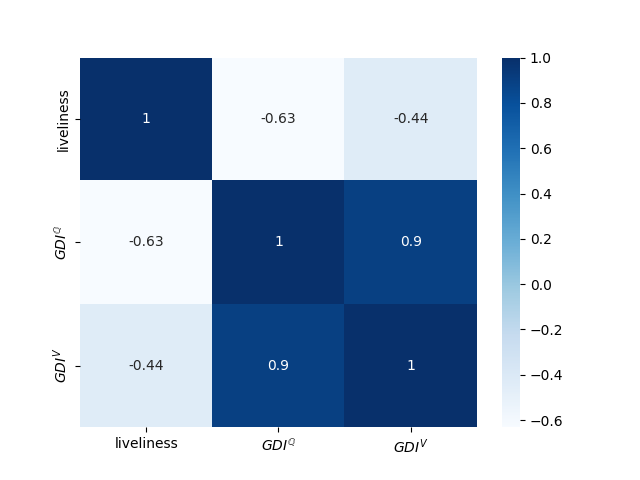
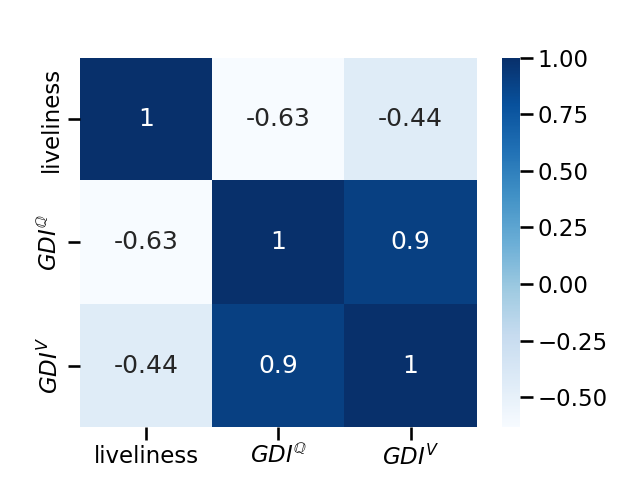
submitted for review version

diff --git a/benchmark/benchmark/Utils/64node_analysis.py b/benchmark/benchmark/Utils/64node_analysis.py
@@ -26,6 +26,10 @@ def non_us_europe_count(data):
     return (64-count)
 
 all_data = pd.read_csv("/home/ubuntu/results/64node-random-mean-geo-dec-metrics.csv")
+fixed_data = pd.read_csv("/home/ubuntu/results/64node-fixed-mean-geo-dec-metrics.csv")
+# check_data = pd.read_csv("/home/ubuntu/results/64node-check-mean-geo-dec-metrics.csv")
+all_data = all_data.append(fixed_data)
+# all_data = all_data.append(check_data)
 run_ids = list(set(all_data['run_id'].values.tolist()))
 
 results_df = pd.DataFrame(columns=['run_id', 'minority_count', 'minority_jailed_5', 'total_jailed_5', 'non_us_europe_count', 'GDI_before', 'GDI_after', 'GDI_solution', 'GDI_percent_decrease', 'GDI_percent_decrease_sol' ]) #, 'total_jailed_10', 'minority_jailed_20', 'total_jailed_20', 'minority_jailed_30', 'total_jailed_30', 'is_not_minority_jailed'])
@@ -47,11 +51,8 @@ for run_id in run_ids:
     
     GDI_percent_decrease = ((GDI_before - GDI_after)/GDI_before)*100
    
-    print(data)
     cities = list(set(data['name'].values.tolist()))
-    print(cities)
     print(data[data['is_minority']==True])
-    print(GDI_67)
     GDI_percent_decrease_solution = ((GDI_before - GDI_ours)/GDI_before)*100
     new_data = pd.DataFrame({'run_id' : run_id, 'non_us_europe_count':non_us_europe_count(data), 'minority_count' : data['is_minority'].values.sum(), 'minority_jailed_5': data['is_minory_and_jailed'].values.sum(),
                                 'total_jailed_5': data['is_jailed'].values.sum(),'GDI_before': GDI_before, 'GDI_after': GDI_after, 'GDI_solution': GDI_ours,
@@ -65,8 +66,9 @@ for run_id in run_ids:
 
 # results_df.to_csv('/home/ubuntu/results/minority_jailed_16node.csv', index=False)
 # minority_count_array = list(set(results_df['minority_count'].values.tolist()))
-# summary = results_df.groupby('non_us_europe_count').mean()
+summary = results_df.groupby('minority_jailed_5').mean()
 # summary.to_csv('/home/ubuntu/results/summary_minority_jailed_16node.csv', index=True)
-# print(summary)
+print(summary)
 
 print(results_df)
+summary.to_csv('/home/ubuntu/results/64node-results.csv')

diff --git a/benchmark/benchmark/Utils/32node-plot.py b/benchmark/benchmark/Utils/32node-plot.py
@@ -1,0 +1,43 @@
+import matplotlib.pyplot as plt
+import pandas as pd
+
+data_5 = pd.read_csv('/home/ubuntu/results/summary_minority_jailed_16node.csv')
+
+# line 1 points
+x = data_5['minority_count']
+y1 = data_5['total_jailed_5']
+# plotting the line 1 points 
+plt.plot(x, y1, label = "π = 5")
+
+y2 = data_5['total_jailed_10']
+plt.plot(x, y2, label = "π = 10")
+
+y3 = data_5['total_jailed_20']
+plt.plot(x, y3, label = "π = 20")
+
+y4 = data_5['total_jailed_30']
+plt.plot(x, y4, label = "π = 30")
+
+# # line 2 points
+# data_10 = pd.read_csv('/home/ubuntu/results/64node-results_10.csv')
+# data_10 = data_10[data_10['minority_jailed_5'] < 10]
+# # line 1 points
+# x2 = data_10['minority_jailed_5']
+# y2 = data_10['GDI_percent_decrease']
+# # plotting the line 2 points 
+# plt.plot(x2, y2, label = "π = 10")
+  
+# naming the x axis
+plt.xlabel('No. of minority validators', fontsize = 18.0)
+# naming the y axis
+plt.ylabel('No. of jailed validators (average)', fontsize = 18.0)
+
+  
+# show a legend on the plot
+plt.legend(fontsize=18)
+plt.ylim(ymin=0)  # this line
+plt.xlim(xmin=0)  # this line
+ 
+# function to show the plot
+plt.show()
+plt.savefig("benchmark/Utils/32node-plot.png") 

diff --git a/benchmark/benchmark/Utils/64node-plots.py b/benchmark/benchmark/Utils/64node-plots.py
@@ -1,0 +1,33 @@
+import matplotlib.pyplot as plt
+import pandas as pd
+
+data_5 = pd.read_csv('/home/ubuntu/results/64node-results.csv')
+
+# line 1 points
+x1 = data_5['minority_jailed_5']
+y1 = data_5['GDI_percent_decrease']
+# plotting the line 1 points 
+plt.plot(x1, y1, label = "π = 5")
+  
+# line 2 points
+data_10 = pd.read_csv('/home/ubuntu/results/64node-results_10.csv')
+data_10 = data_10[data_10['minority_jailed_5'] < 10]
+# line 1 points
+x2 = data_10['minority_jailed_5']
+y2 = data_10['GDI_percent_decrease']
+# plotting the line 2 points 
+plt.plot(x2, y2, label = "π = 10")
+  
+# naming the x axis
+plt.xlabel('Number of minority jailed', fontsize = 18.0)
+# naming the y axis
+plt.ylabel('% decrease in GDI', fontsize = 18.0)
+  
+# show a legend on the plot
+plt.legend(fontsize=18)
+plt.ylim(ymin=0)  # this line
+plt.xlim(xmin=0)  # this line
+ 
+# function to show the plot
+plt.show()
+plt.savefig("benchmark/Utils/64node-plot.png") 

diff --git a/benchmark/benchmark/Utils/correlation_plot.py b/benchmark/benchmark/Utils/correlation_plot.py
@@ -16,11 +16,12 @@ df.rename(columns={'total_dist' : '$GDI^{V}$'}, inplace=True)
 # calculate the correlation matrix
 corr = df.corr()
 # plot the heatmap
-plot = sns.heatmap(corr, cmap="Blues",
-        xticklabels=corr.columns,
-        yticklabels=corr.columns, annot=True)
-fig = plot.get_figure()
-fig.savefig("benchmark/Utils/correlation-plot.png") 
+with sns.plotting_context("talk"):
+        plot = sns.heatmap(corr, cmap="Blues",
+                xticklabels=corr.columns,
+                yticklabels=corr.columns, annot=True)
+        fig = plot.get_figure()
+        fig.savefig("benchmark/Utils/correlation-plot.png") 
 
 print(corr)
 print(pearsonr(data['liveliness_avg'], data['two_third_dist']))

diff --git a/benchmark/fabfile.py b/benchmark/fabfile.py
@@ -96,7 +96,7 @@ def install(ctx):
 def remote(ctx):
     ''' Run benchmarks on ComputeCanada/AWS '''
     # test GeoInput  
-    geoInput = {111: 1, 70: 1, 31: 1, 72: 1, 71: 1, 37: 4, 210: 1, 22: 1, 198: 3, 214: 2, 44: 2, 18: 3, 114: 1, 4: 2, 79: 2, 100: 2, 17: 1, 89: 1, 20: 1, 190: 3, 143: 5, 73: 1, 19: 3, 140: 1, 10: 1, 35: 1, 75: 2, 77: 2, 54: 1, 45: 1, 24: 2, 76: 2, 14: 1, 29: 1, 11: 1, 7: 1, 16: 1, 13: 1, 82: 2}
+    geoInput = {23: 20, 45: 20, 50: 1, 46: 1, 95: 1, 169: 1, 18: 1, 7: 2, 37: 1, 24: 2, 16: 1, 13: 1, 47: 2, 54: 1, 19: 2, 89: 1, 4: 1, 76: 1, 12: 2, 22: 1, 140: 1}
     
     bench_params = {
         'faults': 0,
